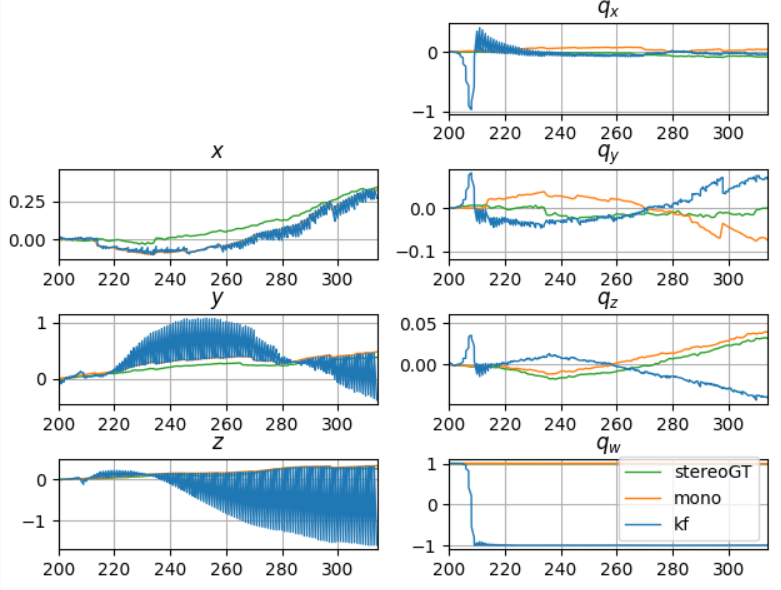
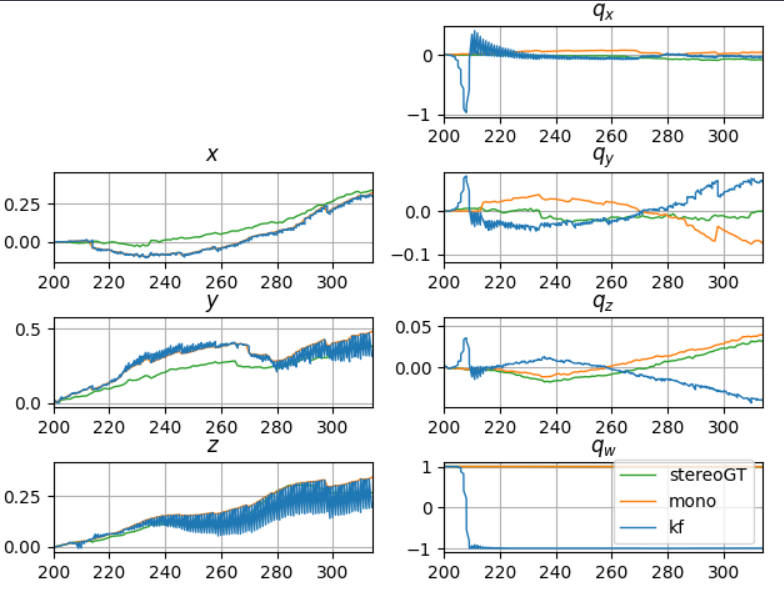
updated readme: velocities

Changed region(s): [[0.0, 0.0, 0.9834, 0.9763], [0.0, 0.7627, 0.4917, 0.9763], [0.1844, 0.3356, 0.2458, 0.3661]]

diff --git a/readme.md b/readme.md
@@ -7,6 +7,7 @@ Based on ![this repo](https://github.com/skrogh/msf_ekf).
   * [Offline trajectories](#offline-trajectories)
   * [Fake IMU data](#fake-imu-data)
   * [Reconstructed visual trajectory](#reconstructed-visual-trajectory)
+  * [Comparing velocities (**NEW**)](#comparing-velocities)
   * [KF propagation only](#kf-propagation-only)
 * [Current status (of the filter)](#current-status)
 
@@ -58,11 +59,25 @@ generated IMU data (without noise).
 
 ![](img/traj_recon.PNG)
 
+### Comparing velocities
+Tried to compare
+* velocities from the stereo trajectory (from numerical differentation of x, y, z)
+* velocities from kalman filter (propagation only, IMU without noise)
+![](img/velocities.png)
+
+Corrected the offset by setting the initial values v0 in the Kalman filter
+to the initial values from the stereo trajectory.
+
+(Previously `v0 = [0., 0., 0.]`, now `v0 = [stereoGT_traj.vx[0], stereoGT_traj.vy[0], stereoGT_traj.vz[0]]`)
+
+![](img/velocities_corrected.png)
+
 ### KF propagation only
 Using initial pose from monocular trajectory and propagating using IMU values
-(not noisy).
+(**not noisy**).
 
 Currently, propagation equations seem to check out for the quaternions!
+Pictured: after correcting the initial values for the velocity `v0`:
 
 ![](img/traj_only_prop.PNG)
 
@@ -75,6 +90,9 @@ python3 main.py
 
 
 Not working, something's wrong...
+
+Pictured: KF with both propagation and update steps; **non-noisy IMU**
+for the time being.
 
 ![](img/kf.PNG)
 ![](img/kf_z.PNG)
